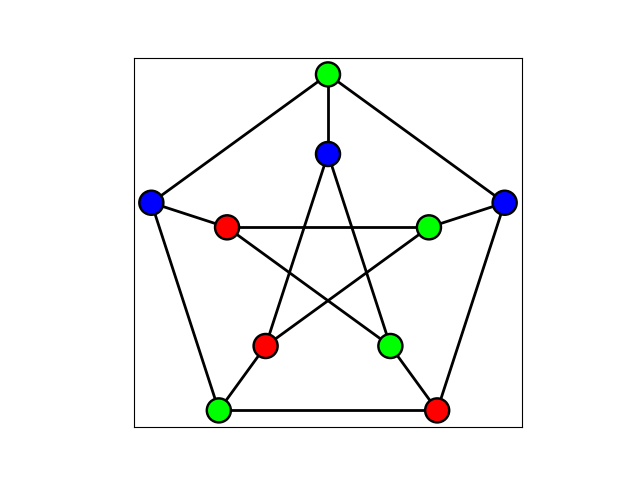
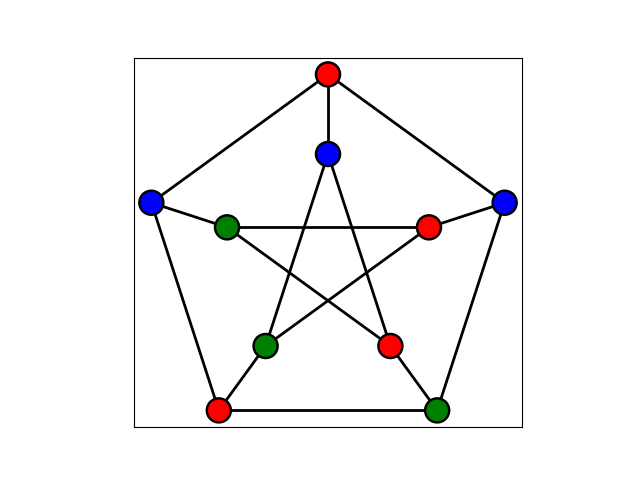
Update Petersen Graph so same colours

diff --git a/Code/Petersen-Graph-Colouring.py b/Code/Petersen-Graph-Colouring.py
@@ -5,7 +5,7 @@ import numpy as np
 
 
 #Constants
-OUTPUT_COLOURS = ["blue", "lime", "red"]
+OUTPUT_COLOURS = ["blue", "red", "green"]
 
 
 #Functions
@@ -44,5 +44,5 @@ for counter in range(len(vertices)):
 nx.draw_networkx(G, pos=pos, with_labels=False, node_color=output_colouring, linewidths=1.75, edgecolors="black", width=2)
 #https://stackoverflow.com/questions/17990845/how-to-equalize-the-scales-of-x-axis-and-y-axis-in-python-matplotlib
 plt.gca().set_aspect('equal', adjustable='box')
-plt.savefig("Petersen-Graph-Colouring.png")
+plt.savefig("../Figures/Petersen-Graph-Colouring.png")
 plt.show()
